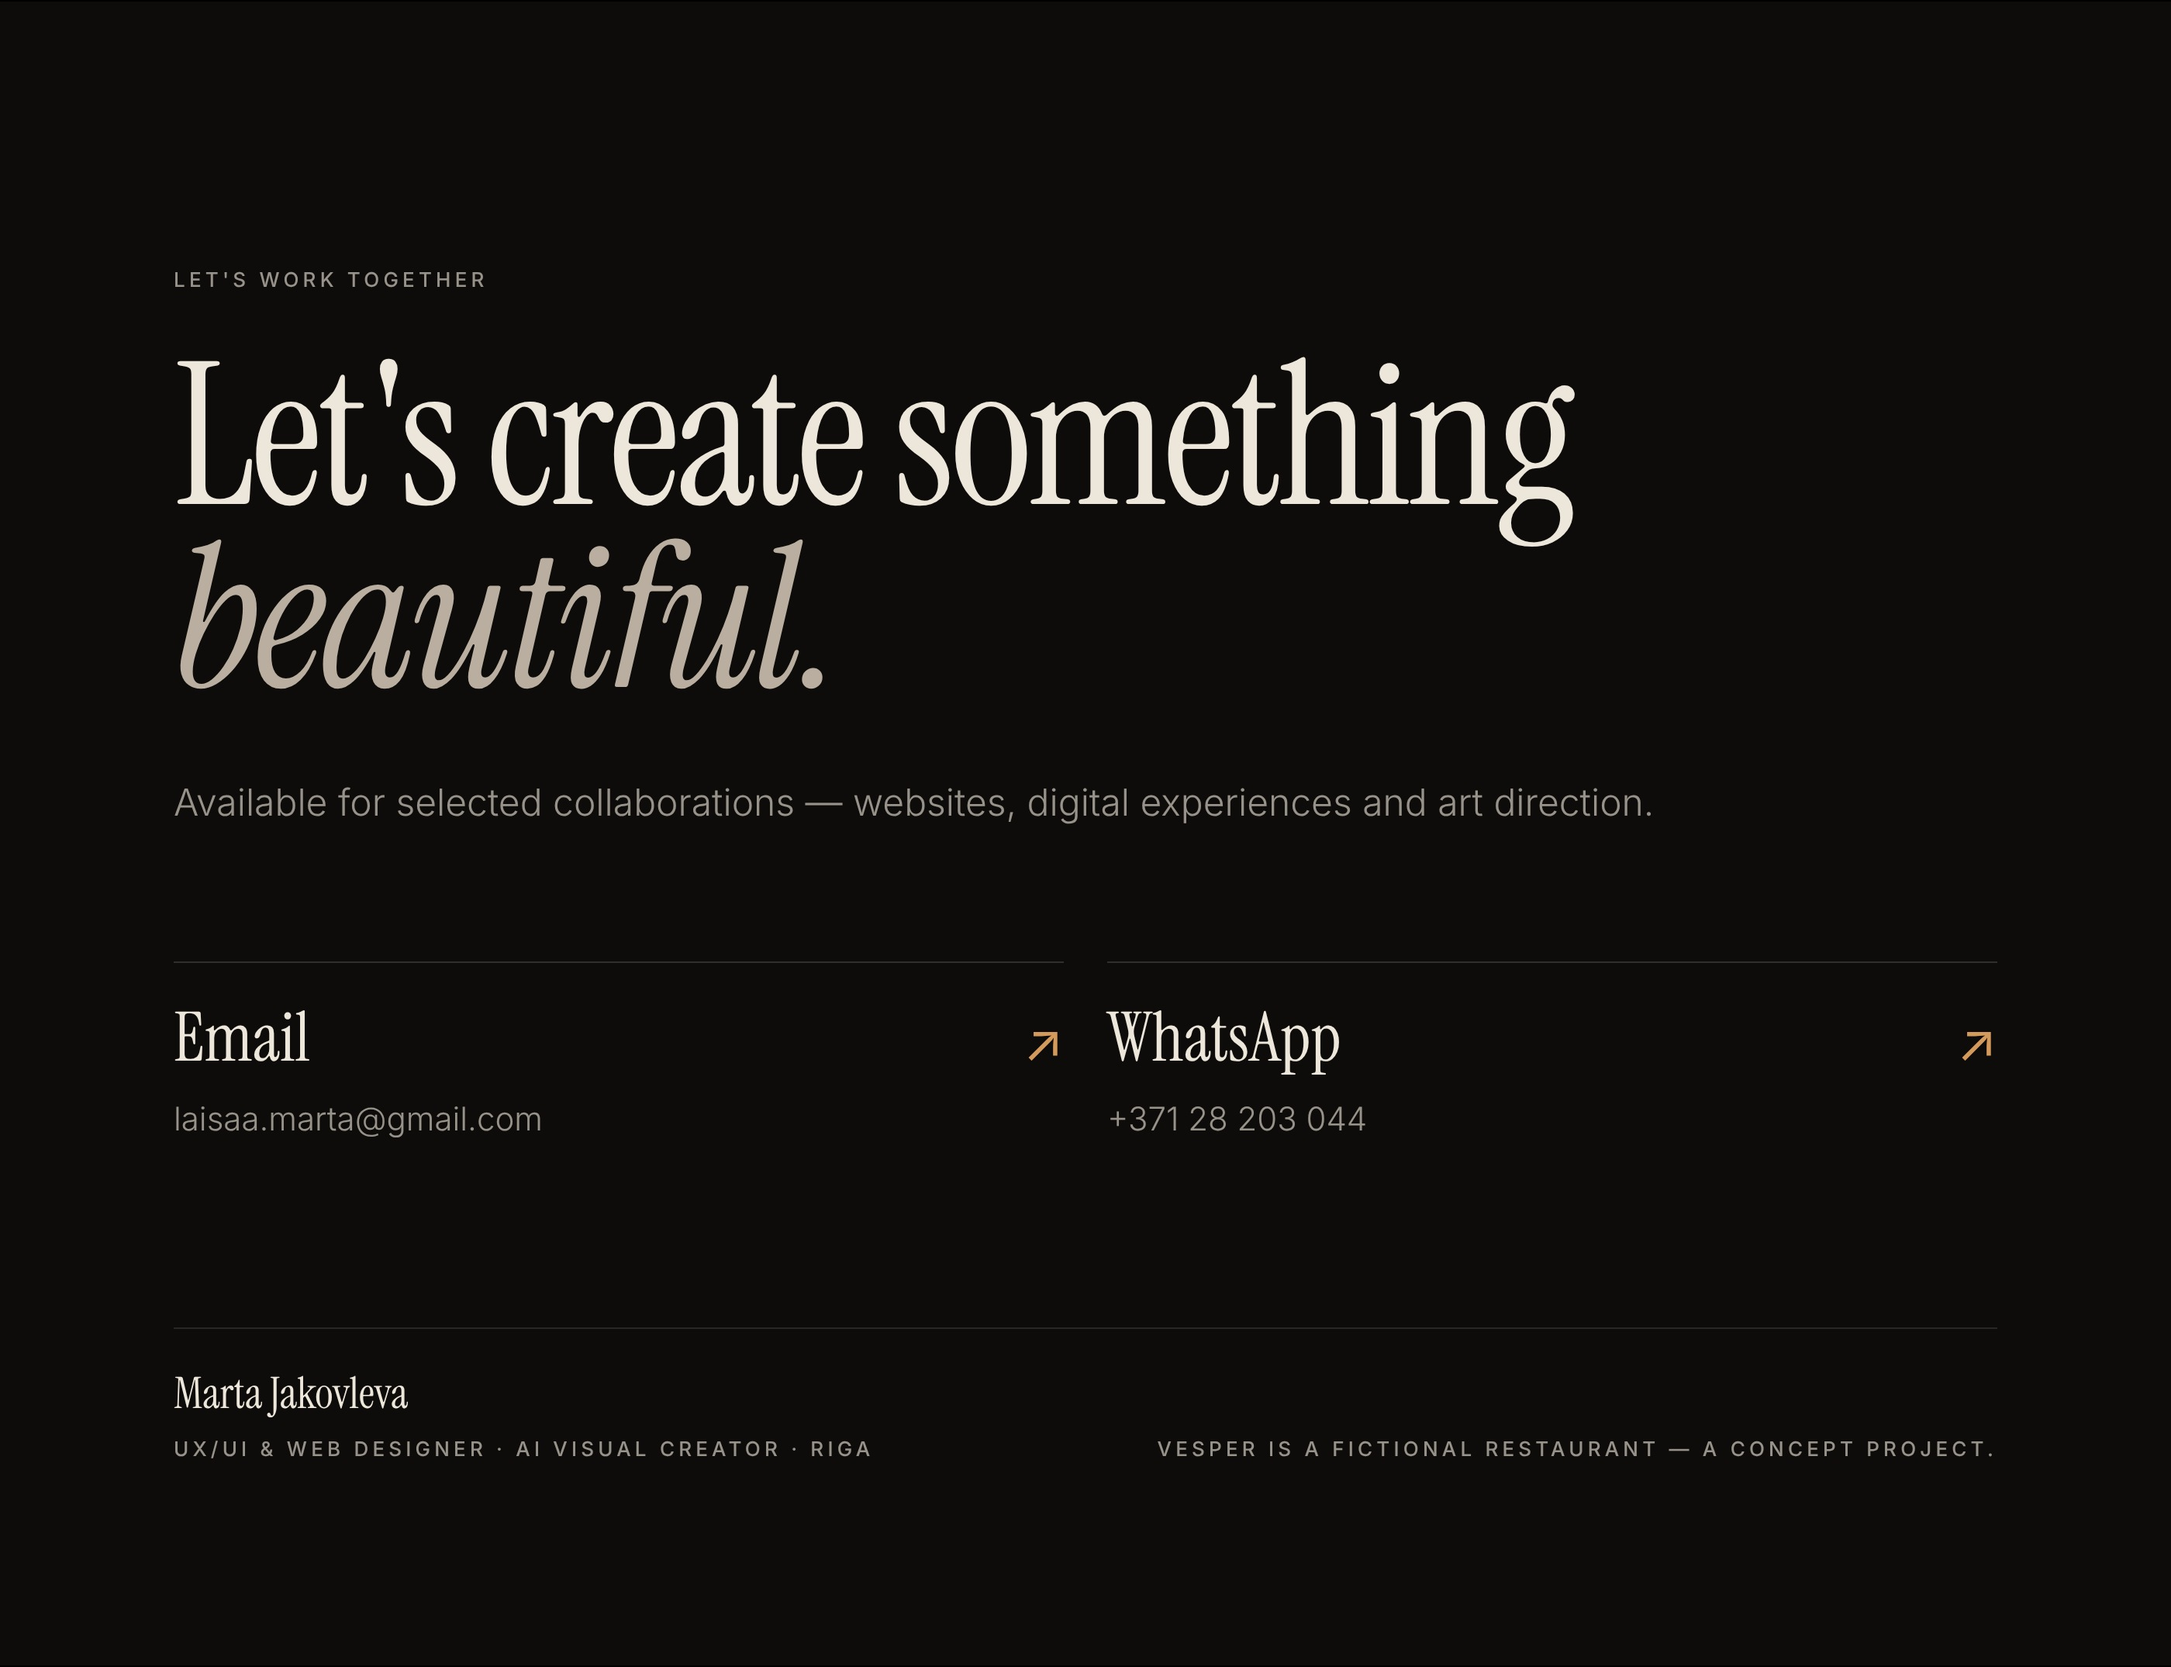
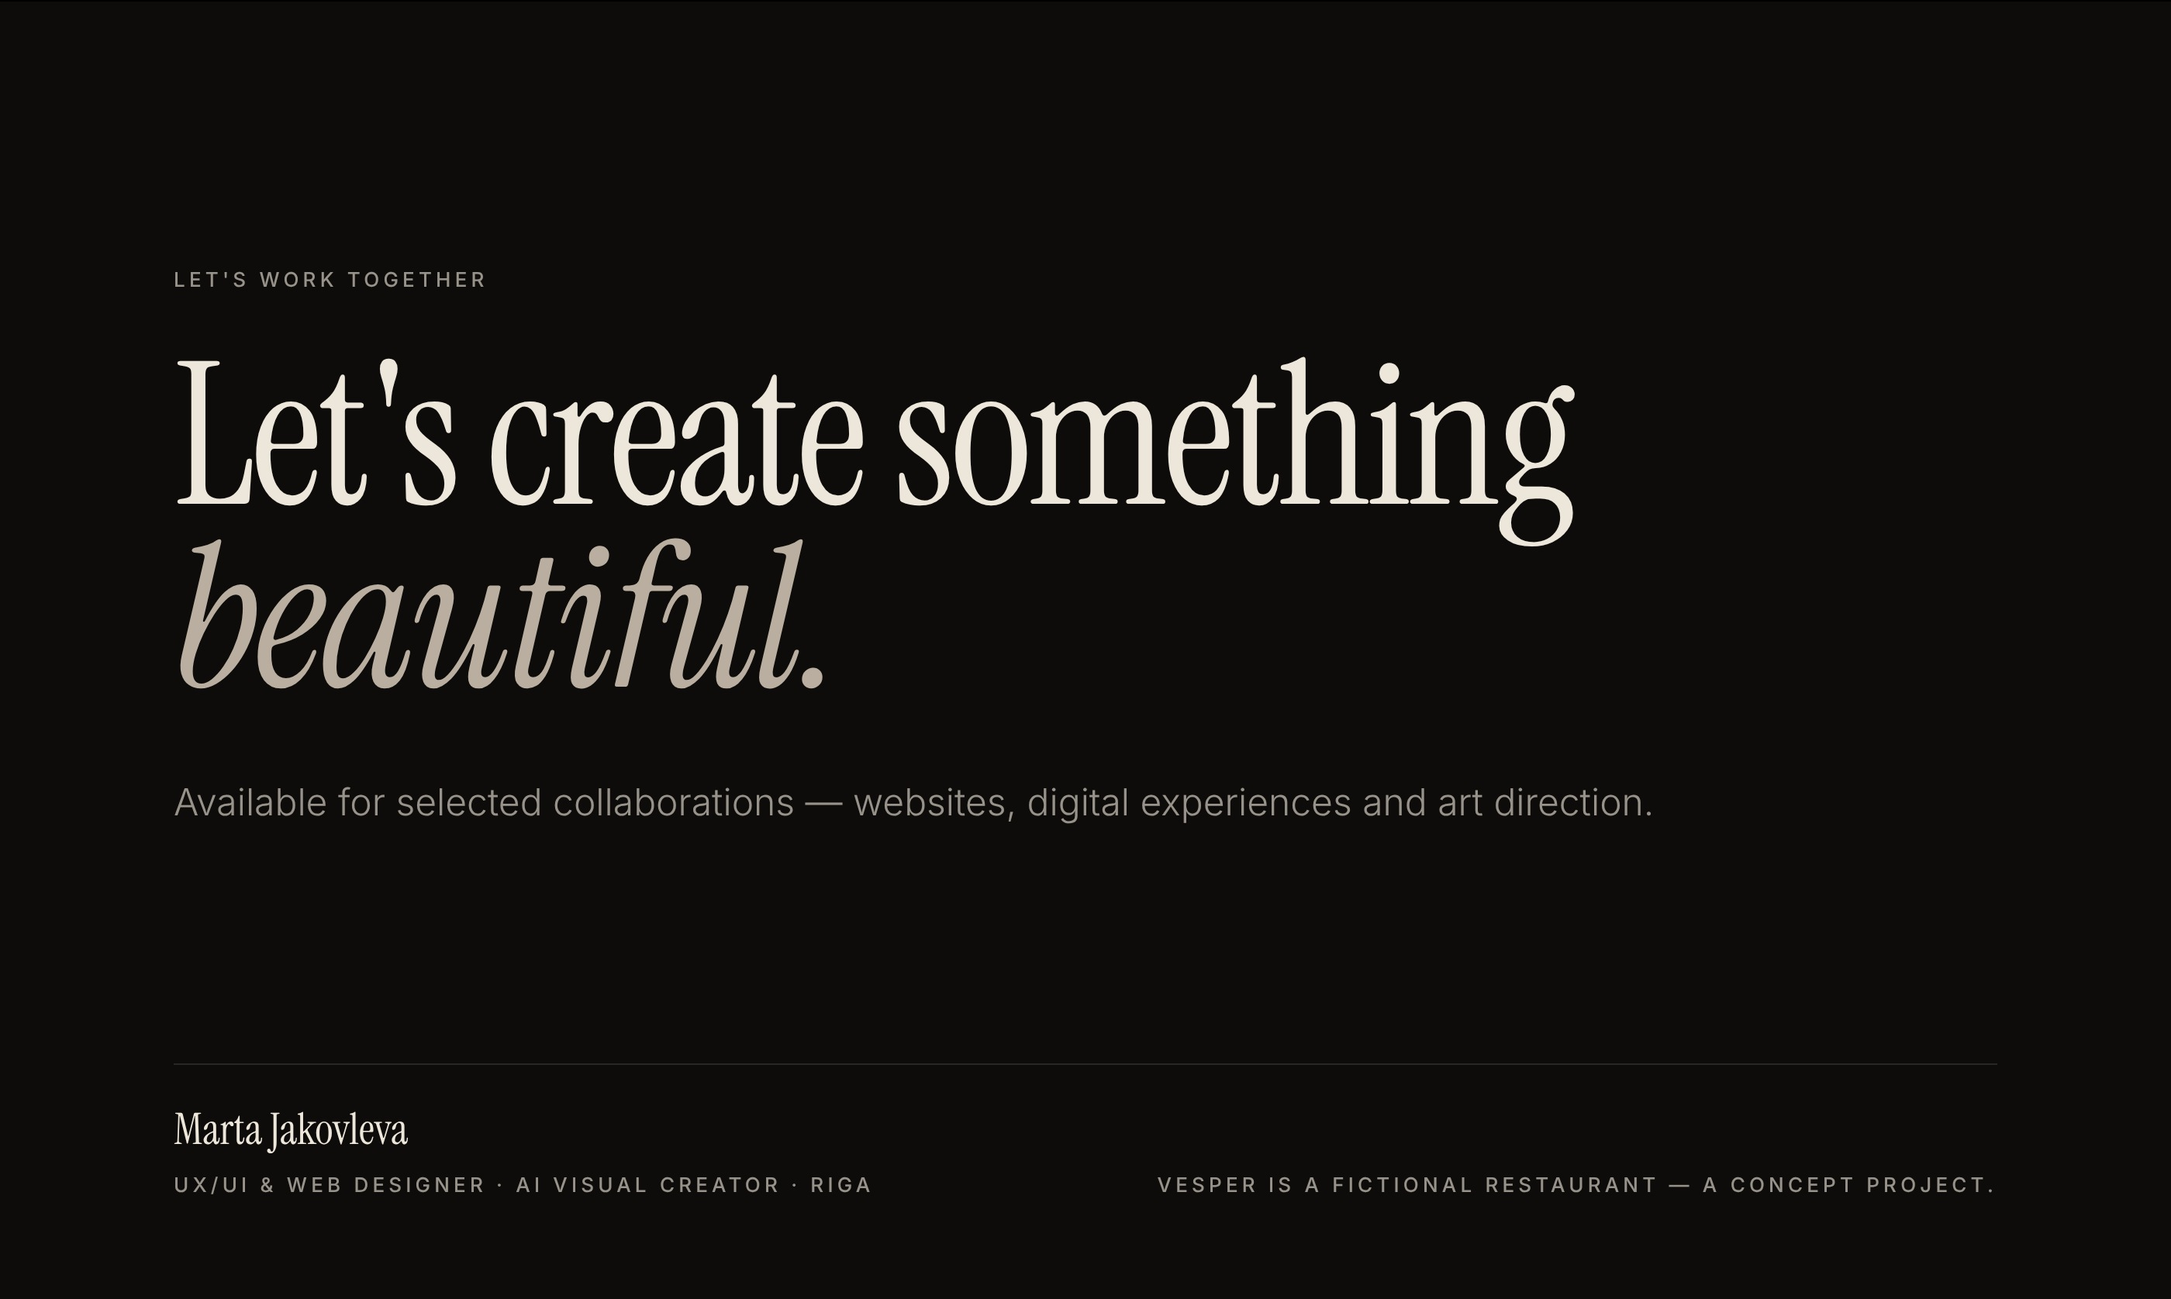
Case v4: all GIFs 1200px and ~10MB for the Behance app; CTA without printed contacts; mobile screens with new menu
Claude-Session: https://claude.ai/code/session_011vqFLFDv7vsNPGYrLaF2GH

diff --git a/kit/UPLOAD-GUIDE.md b/kit/UPLOAD-GUIDE.md
@@ -45,9 +45,11 @@ behance.net → «Поделиться работой» → «Опубликов
 | 28 | **Текст** | Кликабельные ссылки, см. ниже |
 
 ## 4. Последний модуль: «Текст»
-По центру, с засечками, цвет **#EDE6DA**:
+Сразу под 27_cta, по центру, шрифт Helvetica/Arial, **11 px**, ЗАГЛАВНЫЕ, цвет **#B9AE9F** — маленькие аккуратные ссылки (адреса не печатаются, только кликабельные слова):
 
-**Email ↗** → `mailto:laisaa.marta@gmail.com`  ·  **WhatsApp ↗** → `https://wa.me/37128203044`  ·  **Live website ↗** → `https://vesper-riga.vercel.app`
+EMAIL ↗ → `mailto:laisaa.marta@gmail.com`  ·  WHATSAPP ↗ → `https://wa.me/37128203044`  ·  WEBSITE ↗ → `https://vesper-riga.vercel.app`
+
+> Все GIF — 1200 px по ширине и ≤ ~10 МБ (рекомендация Behance): так они загружаются и в мобильном приложении.
 
 ## 5. Обложка
 `00_cover.jpg` (1616×1264, точный формат обложки Behance).
